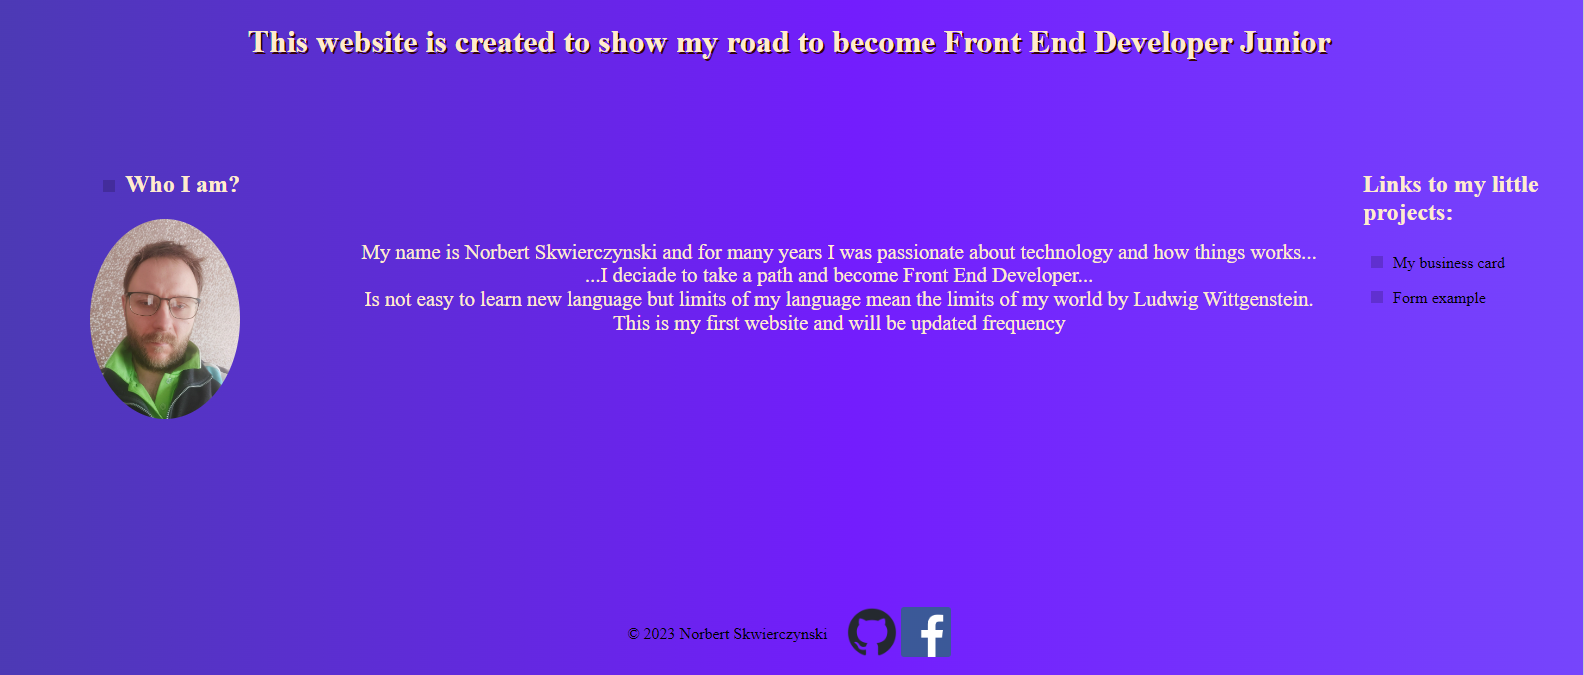
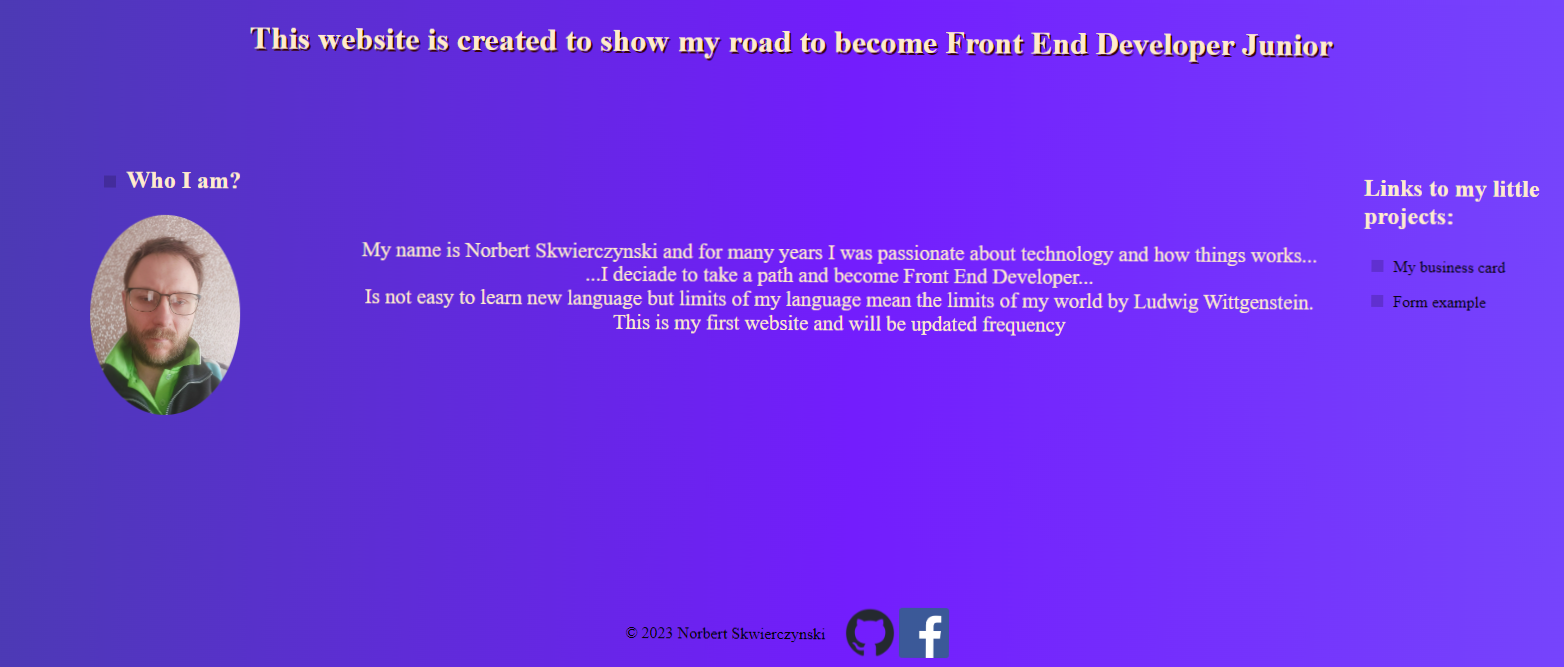
cover for github

diff --git a/README.md b/README.md
@@ -1,4 +1,4 @@
-![MY WEB](D:/dev/project/capture.png)
+![MY WEB](./Capture.PNG)
 # Project
 Thats mine web site where I will try add all my work
 ## Front End 
